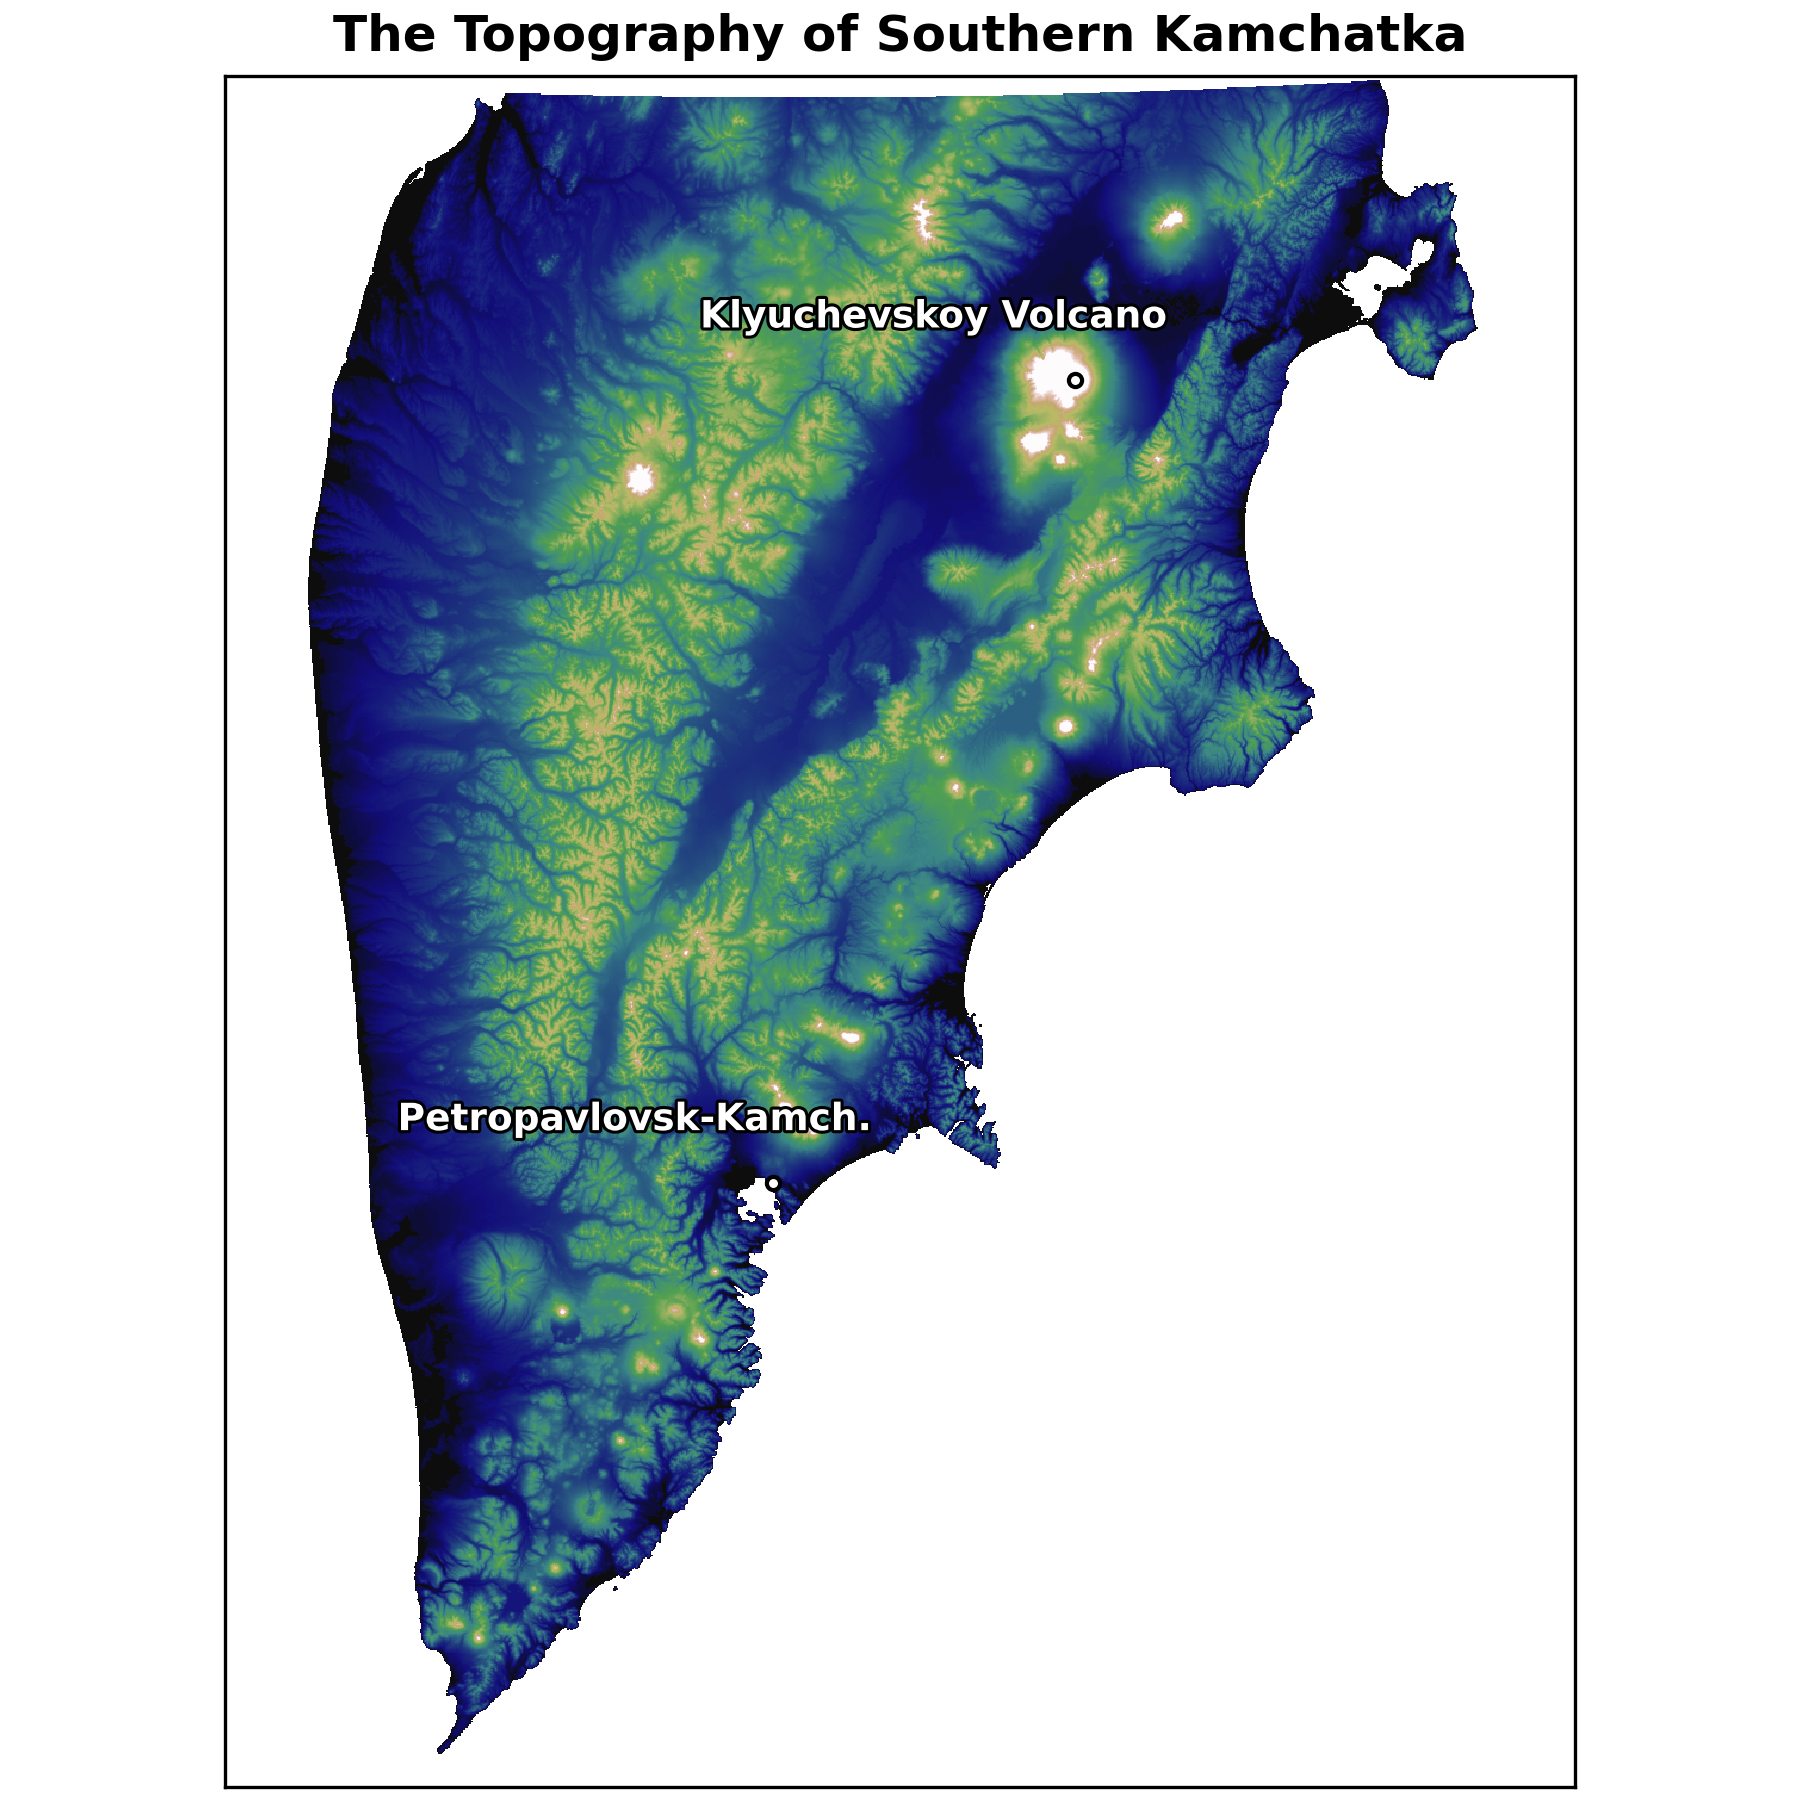
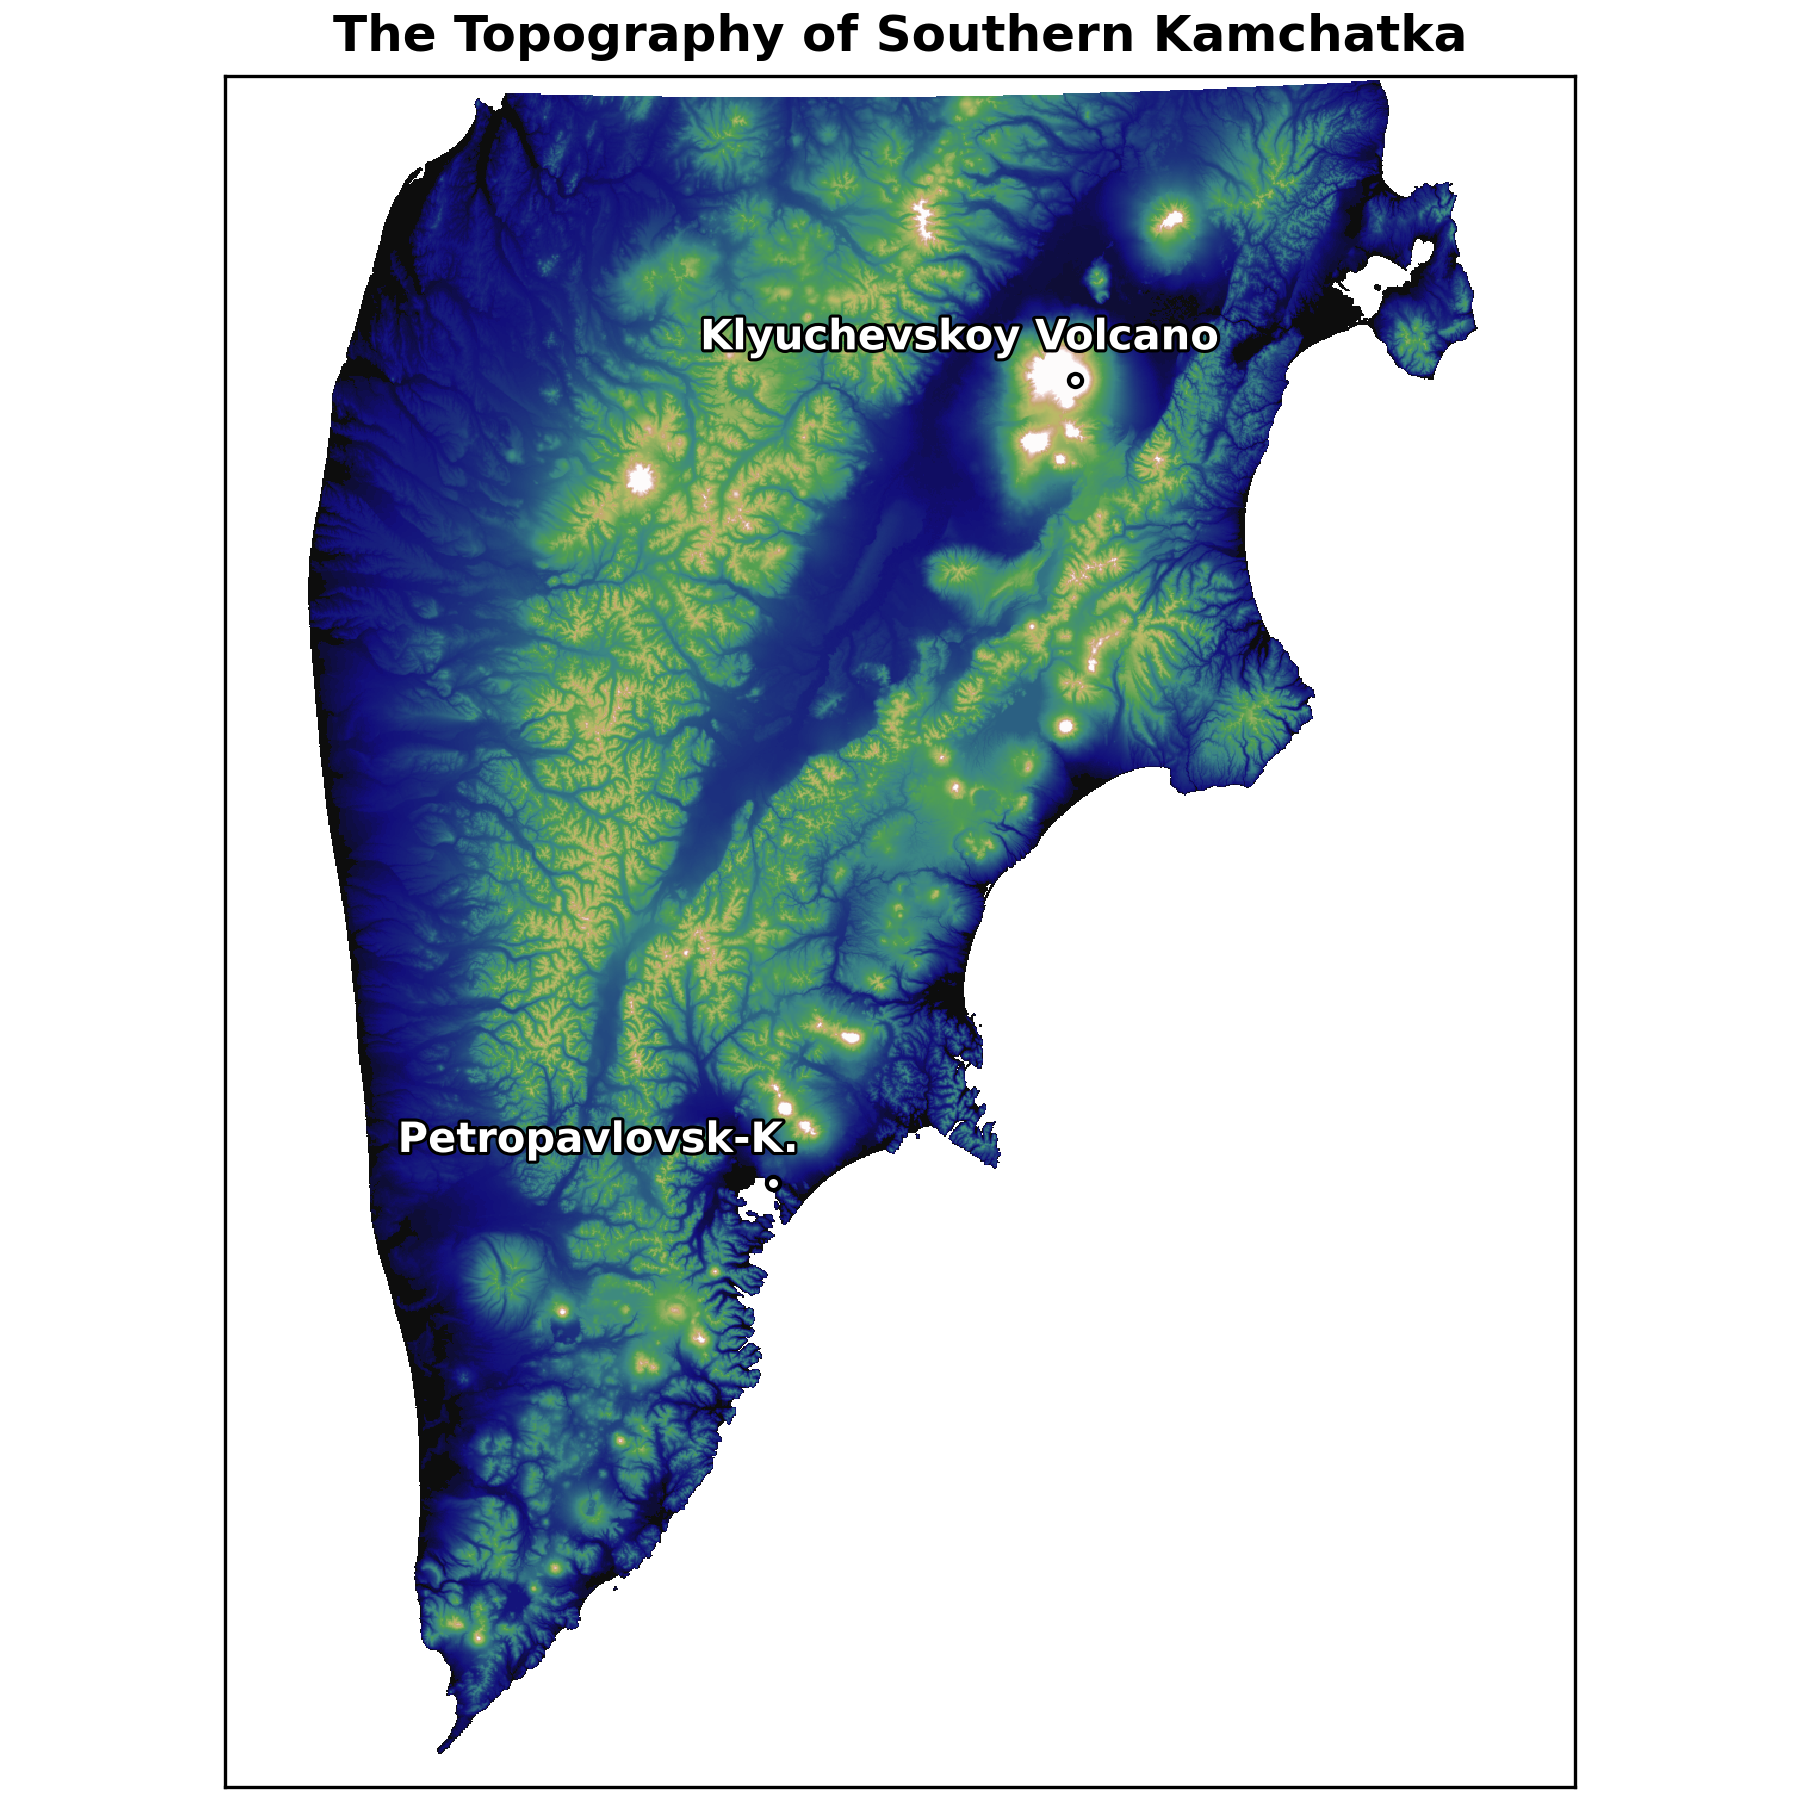
fix: Make Kamchatka labels easier to read

Changed region(s): [[0.3733, 0.1556, 0.6844, 0.2178], [0.2178, 0.5911, 0.4978, 0.6533]]

diff --git a/examples/large_rasters/01_kamchatka_topo_eager.py b/examples/large_rasters/01_kamchatka_topo_eager.py
@@ -67,18 +67,17 @@ kam_topo_warped.plot(
 # Annotate
 locations = [
     (160.642, 56.057, 'Klyuchevskoy Volcano'),
-    (158.633, 53.042, 'Petropavlovsk-Kamch.'),
+    (158.633, 53.042, 'Petropavlovsk-K.'),
     ]
 plot_location_markers(
     locations,
-    xytext=(-90, 15),
+    xytext=(-90, 10),
     to_crs=utm_57n,
     color='white',      # Fill colour for the scatter point (also: the default text colour)
     s=10,               # Size of scatter point
     edgecolors='black', # Border colour for scatter point
+    fontweight="bold",
     other_annotate_kwargs=dict(  # Additional text options for "pro" look
-        weight="bold",
-        fontsize=9,
         path_effects=[pe.withStroke(linewidth=1.5, foreground='black')]
     ),
 )
